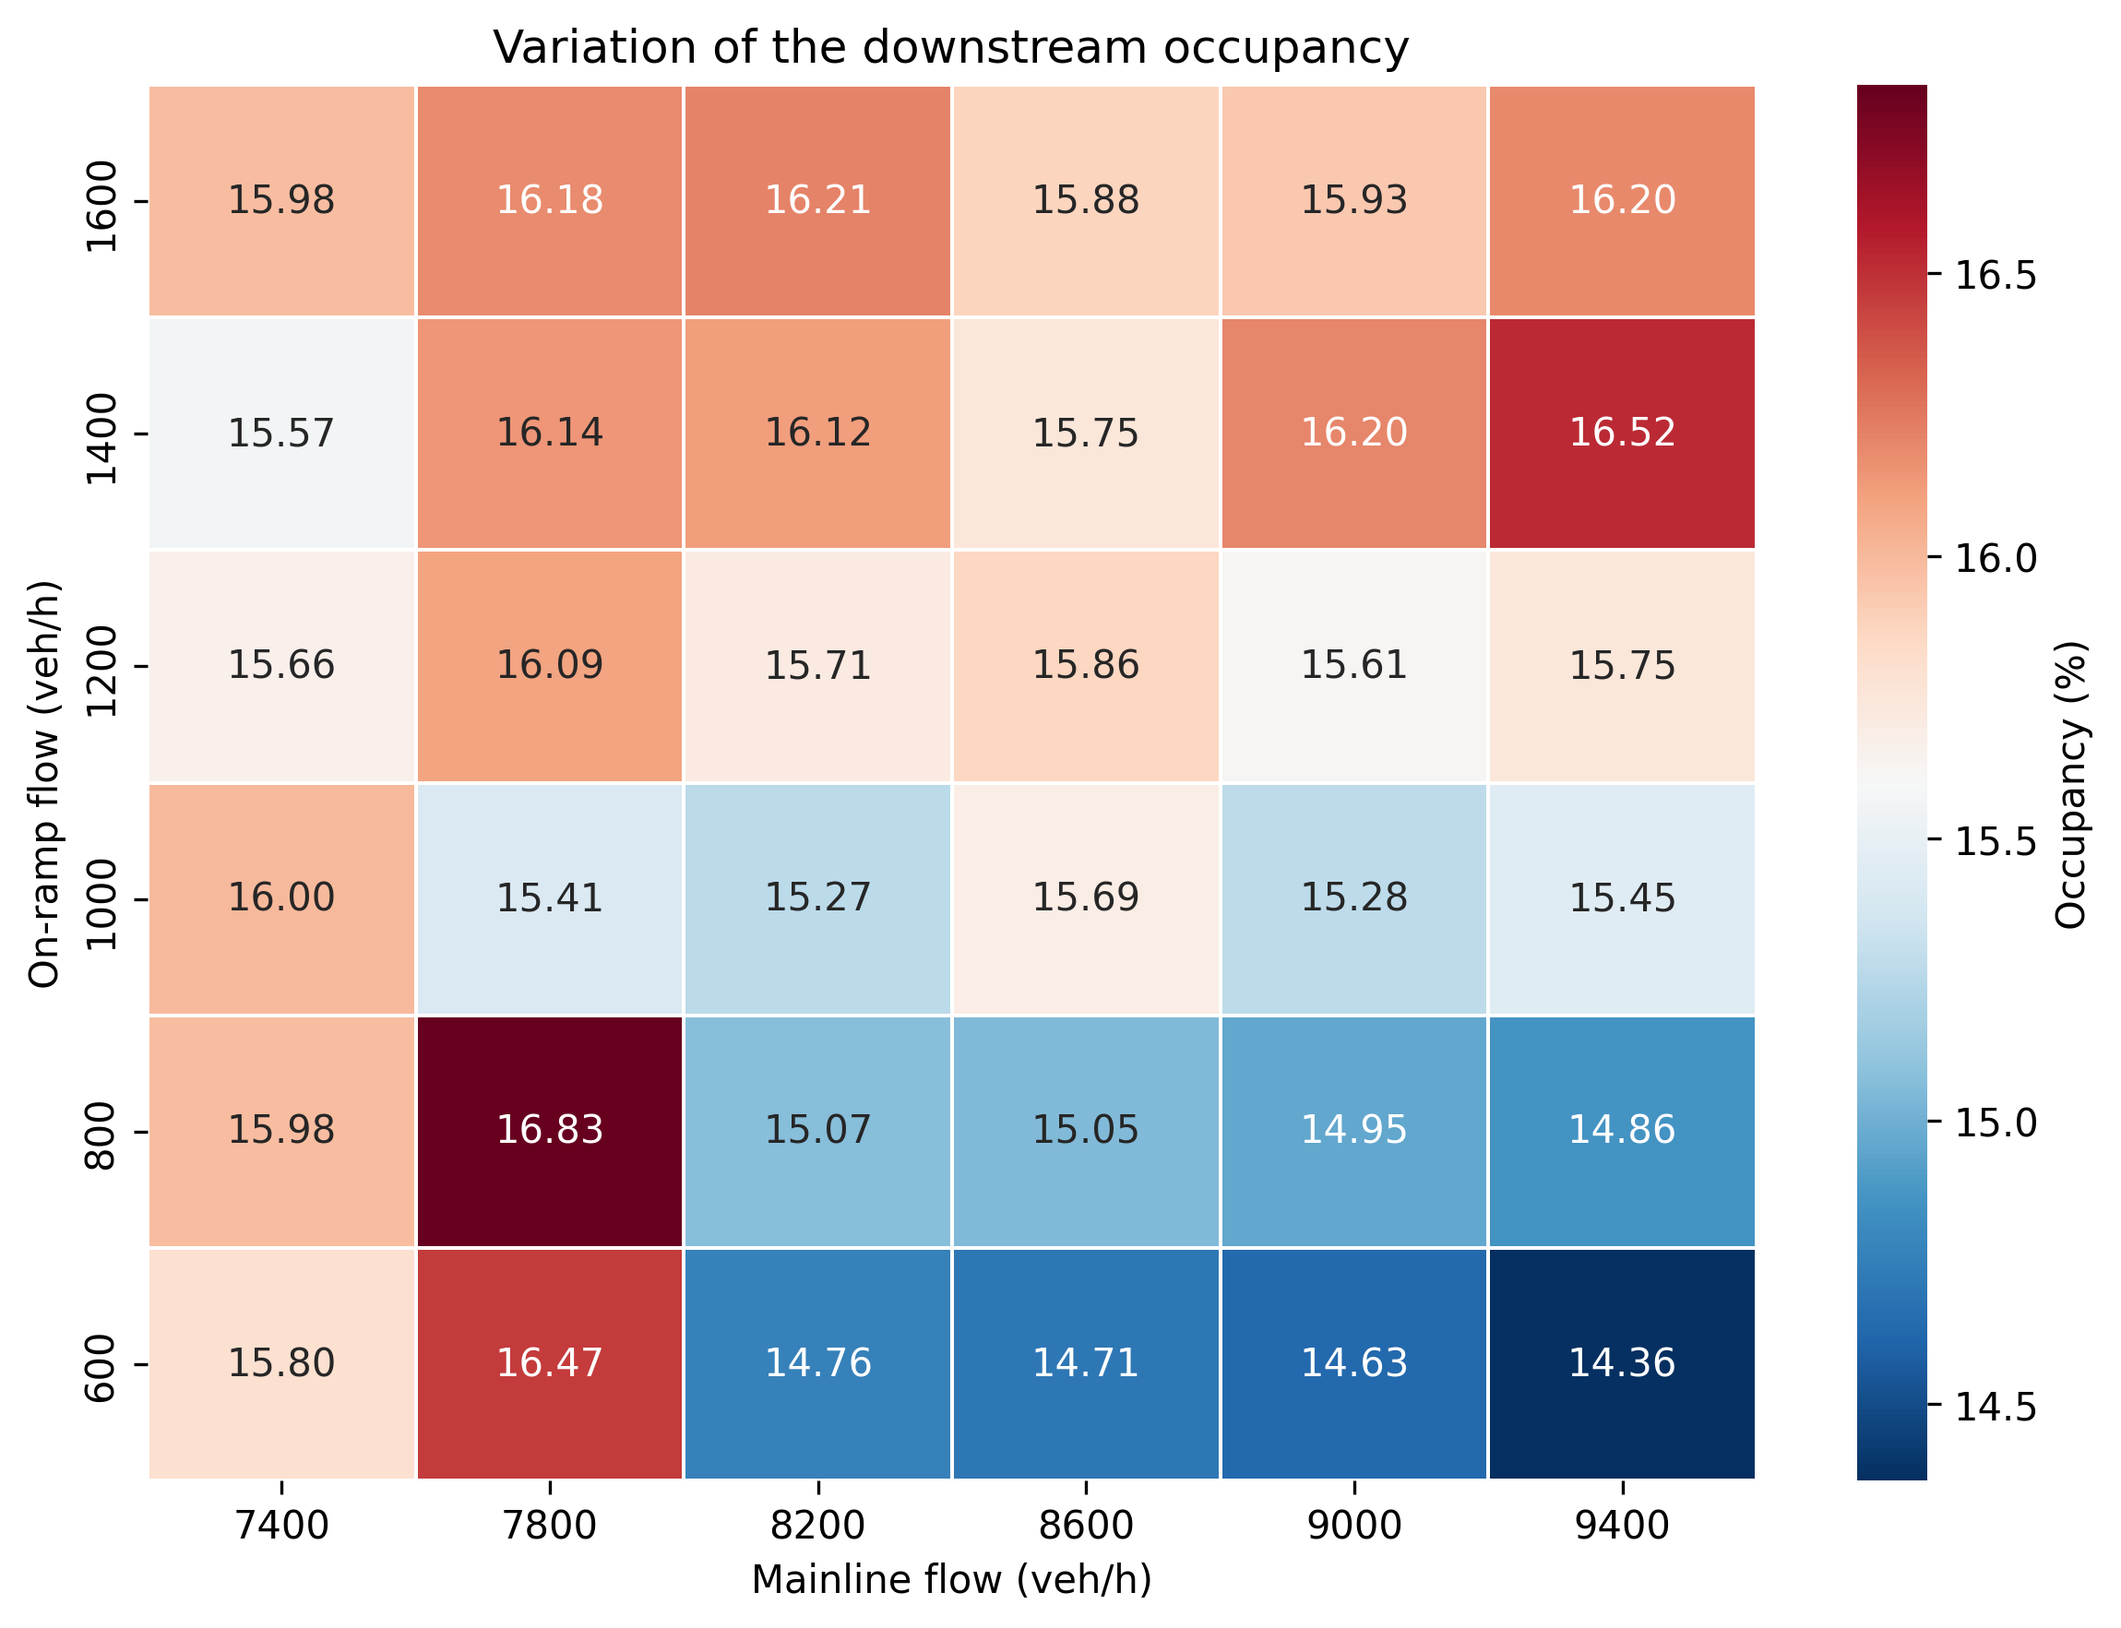
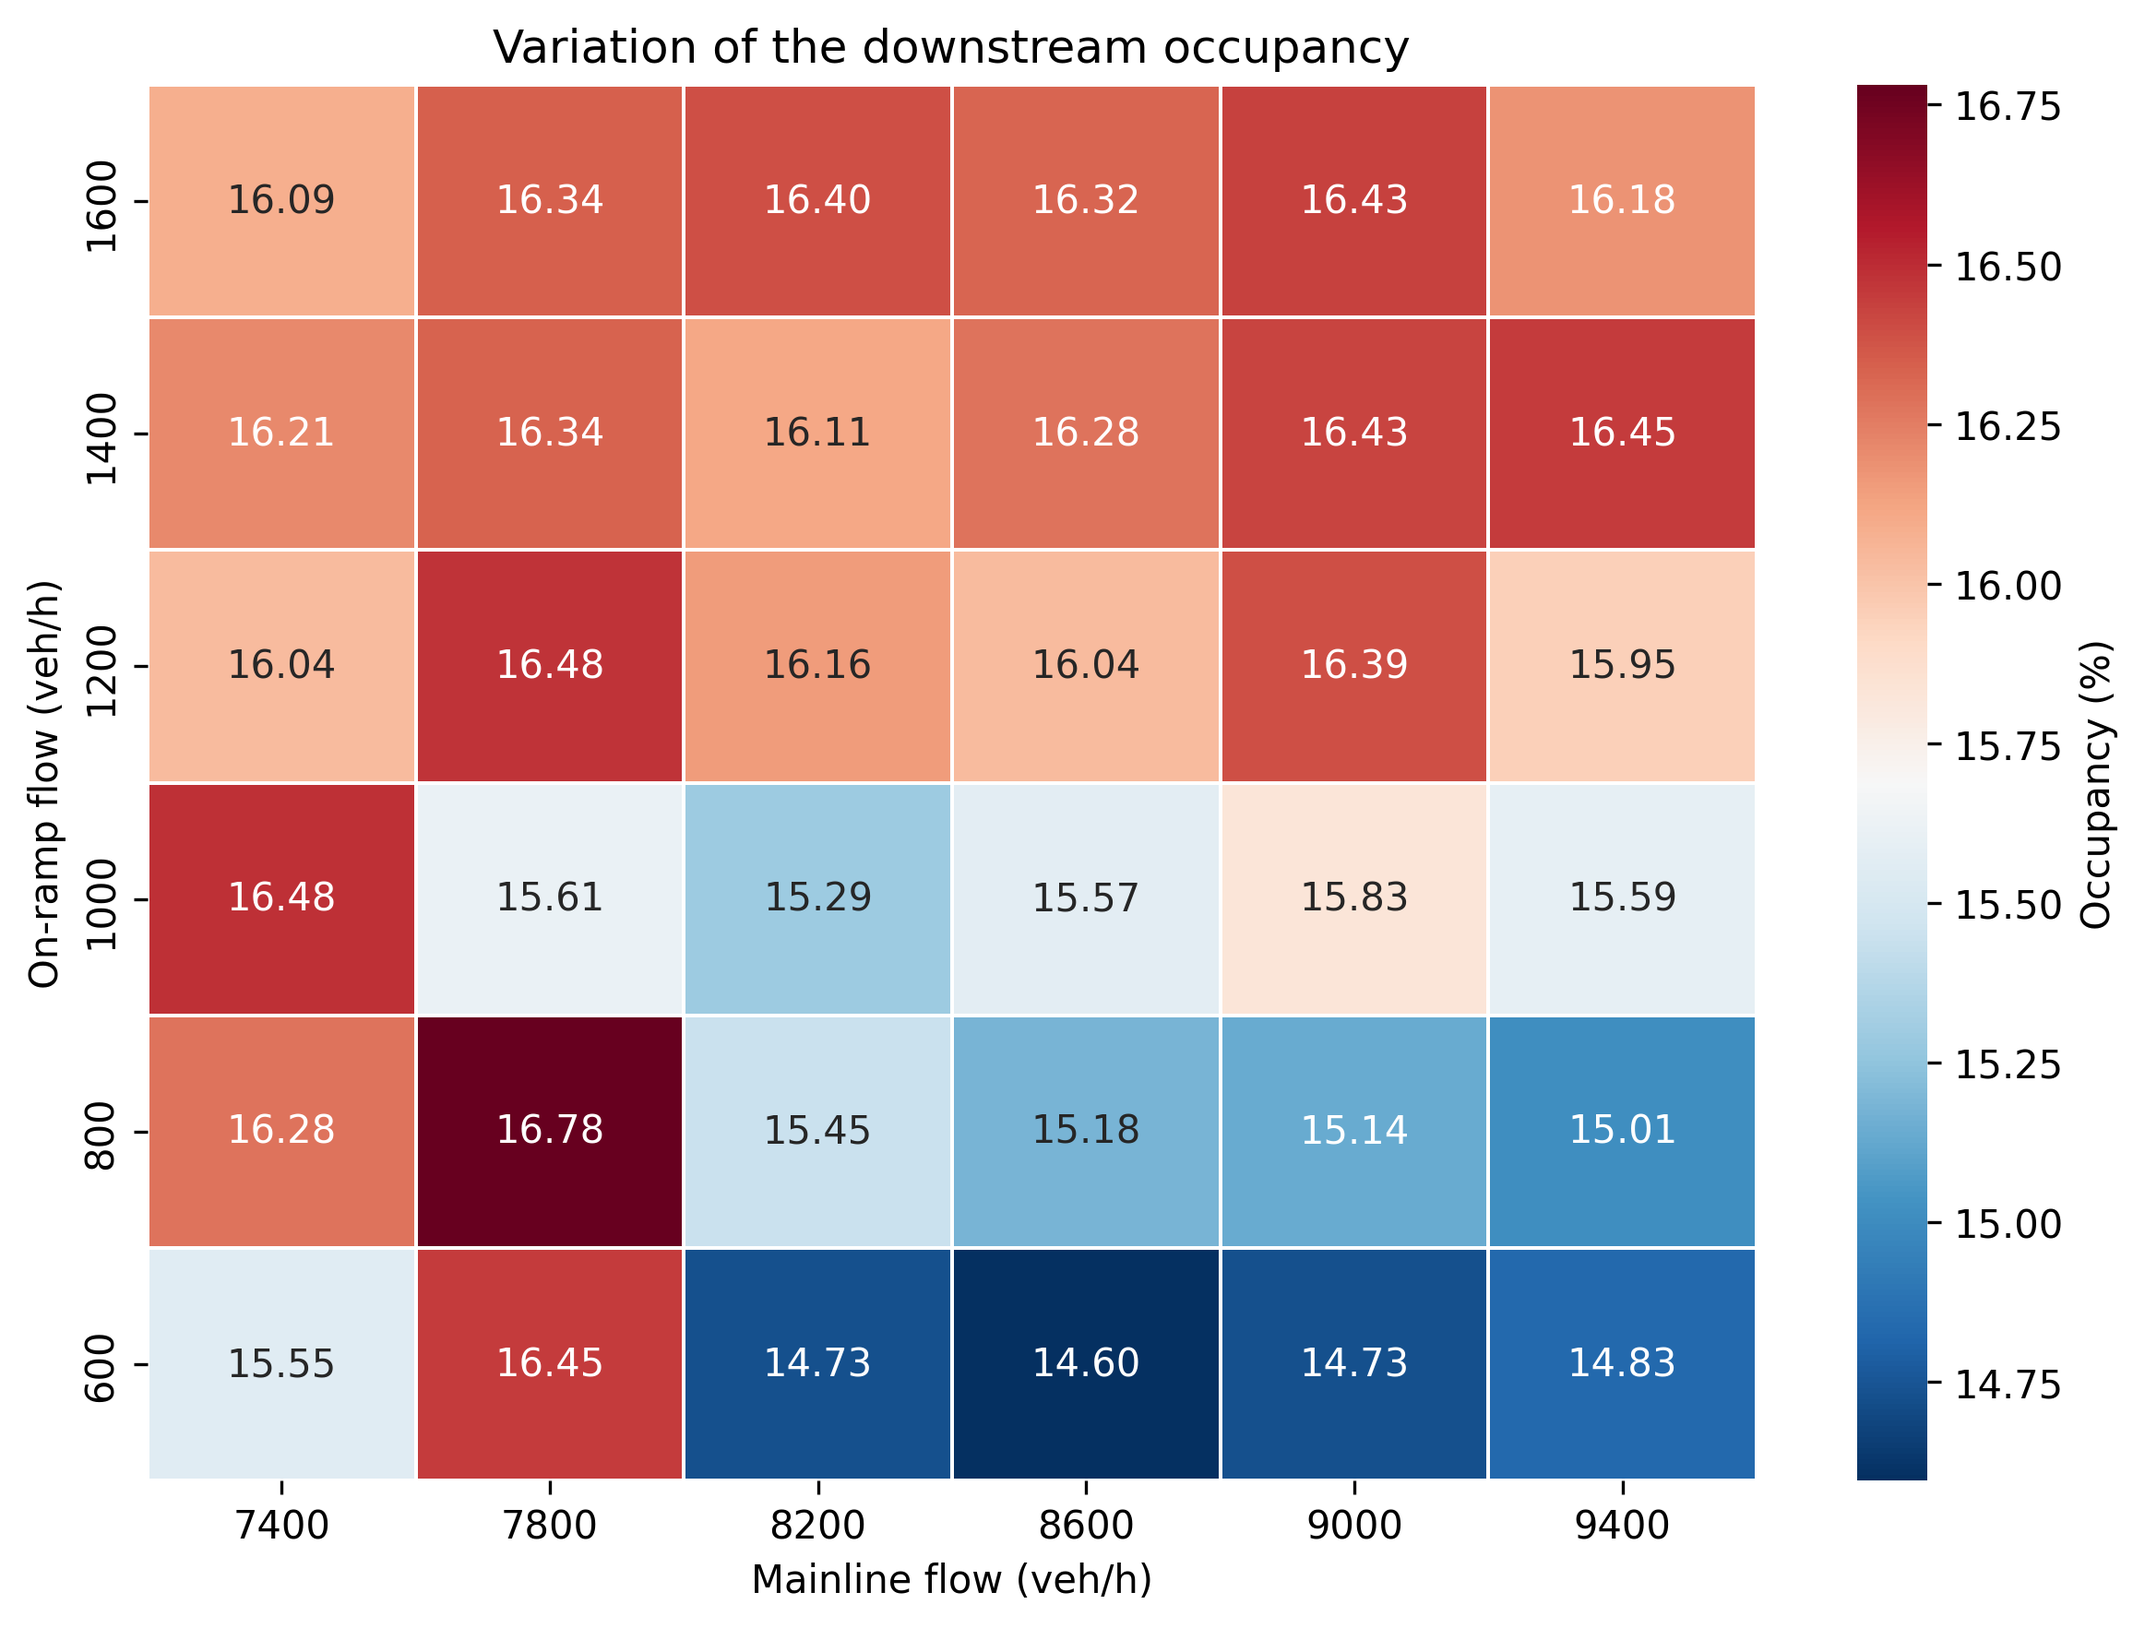
mid day mac

diff --git a/single_ramp/replicate_graphs/plot_figure7.py b/single_ramp/replicate_graphs/plot_figure7.py
@@ -4,14 +4,11 @@ import numpy as np
 import pandas as pd
 import seaborn as sns
 import matplotlib.pyplot as plt
-import sys
-
-sys.path.append(os.path.abspath(os.path.join(os.path.dirname(__file__), '..', '..')))
 
 # --- Configuration ---
-SUMO_NET_FILE = os.path.join("sumo_network","data", "network.net.xml")
-SUMO_ROU_FILE = os.path.join("sumo_network","data", "dynamic_routes.rou.xml")
-SUMO_CFG_FILE = os.path.join("sumo_network","data", "simulation.sumocfg")
+SUMO_NET_FILE = os.path.join("..", "sumo_network","data", "network.net.xml")
+SUMO_ROU_FILE = os.path.join("..", "sumo_network","data", "dynamic_routes.rou.xml")
+SUMO_CFG_FILE = os.path.join("..", "sumo_network","data", "simulation.sumocfg")
 
 # Grid Search Parameters (from the paper)
 MAINLINE_FLOWS = [7400, 7800, 8200, 8600, 9000, 9400]
@@ -19,21 +16,20 @@ RAMP_FLOWS = [600, 800, 1000, 1200, 1400, 1600]
 
 # Simulation parameters
 SIM_STEPS = 3600
-WARMUP_STEPS = 1800  # Discard early data before steady-state is reached
+WARMUP_STEPS = 1800
 TLS_ID = "junction_ramp"
 DOWNSTREAM_DETS = [f"det_loc2_{i}" for i in range(4)]
 
 def generate_route_file(main_flow, ramp_flow):
-    """Dynamically generates a route file for the specific flow combination."""
     # Ensure the car-following parameters match the paper's genetic algorithm calibration
     vtype = """<vType id="paper_car" length="5.0" minGap="2.0" accel="2.6" decel="4.5" sigma="0.3" tau="1.1"
-                      lcCooperative="1.0" lcSpeedGain="2.5" lcImpatience="1.0"
-                      lcOvertakeRight="0.3" lcLookaheadLeft="0.5" lcAssertive="3.0" lcStrategic="0.8"/>"""
+                    lcCooperative="1.0" lcSpeedGain="2.5" lcImpatience="1.0"
+                    lcOvertakeRight="0.3" lcLookaheadLeft="0.5" lcAssertive="3.0" lcStrategic="0.8"/>"""
 
     # Define the physical routes through your updated network
     routes = """
     <route id="route_main" edges="edge_virtual_main edge_mainline edge_merge edge_downstream"/>
-    <route id="route_ramp" edges="edge_virtual_ramp edge_ramp_2 edge_ramp_out edge_ramp_1 edge_merge edge_downstream"/>
+    <route id="route_ramp" edges="edge_virtual_ramp edge_ramp_2 edge_ramp_out edge_merge edge_downstream"/>
     """
 
     # Define continuous flows for 1 hour
@@ -66,10 +62,9 @@ def run_simulation_and_get_occupancy():
         traci.trafficlight.setRedYellowGreenState(TLS_ID, "GG")
         traci.simulationStep()
 
-        # Only collect data after warmup period to ensure queue has stabilized
         if step > WARMUP_STEPS and step % 15 == 0:
             occ = np.mean([traci.inductionloop.getLastIntervalOccupancy(d) for d in DOWNSTREAM_DETS])
-            if occ >= 0:  # Ignore -1.0 readings
+            if occ >= 0:
                 occupancies.append(occ)
 
     traci.close()
@@ -98,7 +93,7 @@ def generate_heatmap():
 
     # REMOVED vmin and vmax so it scales dynamically to your data
     ax = sns.heatmap(df, annot=True, fmt=".2f", cmap="RdBu_r", cbar_kws={'label': 'Occupancy (%)'},
-                     linewidths=.5)
+                    linewidths=.5)
 
     plt.title("Variation of the downstream occupancy")
     plt.xlabel("Mainline flow (veh/h)")

diff --git a/single_ramp/action_replacement.py b/single_ramp/action_replacement.py
@@ -1,9 +1,8 @@
-import math
 
 from config import RAMP_CAPACITY_VEH_S, SIM_STEPS_PER_CONTROL, W_MAX, ALPHA, R_MIN_RATIO
 
 def calculate_lower_bound(demand_prev_veh_s, current_queue):
-    # Calculate maximum allowed vehicles based on adjustment coefficient
+    # Calculate maximum allowed vehicles
     max_allowed_queue = ALPHA * W_MAX
 
     # Calculate how many more vehicles the ramp can hold
@@ -15,31 +14,29 @@ def calculate_lower_bound(demand_prev_veh_s, current_queue):
     # Calculate required discharge rate (veh/s) using Equation 13
     required_discharge_veh_s = demand_prev_veh_s - absorption_rate_veh_s
 
-    # Convert the required discharge rate into an action ratio [0, 1]
     r_lb_raw = required_discharge_veh_s / RAMP_CAPACITY_VEH_S
 
-    # Apply the absolute minimum rate
-    r_lb = max(R_MIN_RATIO, r_lb_raw)
-
-    # Cap the lower bound at 1.0
-    r_lb = min(1.0, r_lb)
+    # Convert the required discharge rate into an action ratio [0, 1]
+    r_lb = min(1.0, max(R_MIN_RATIO, r_lb_raw))
 
     return r_lb
-
 def calculate_penalty(current_queue, demand_current, action_ratio, penalty_scaling_factor=2.0):
     # Predict step of spillback (k_sp) based on current dynamics
     discharge_current = action_ratio * RAMP_CAPACITY_VEH_S
-    net_accumulation = demand_current - discharge_current
+    net_accumulation_veh_s = demand_current - discharge_current
 
-    if net_accumulation <= 0:
-        # Queue is shrinking or stable, spillback won't occur under these conditions
+    # Multiply by control step length (T) to get accumulation per control step
+    net_accumulation_per_step = net_accumulation_veh_s * SIM_STEPS_PER_CONTROL
+
+    if net_accumulation_per_step <= 0:
         return 0.0
 
     remaining_capacity = (ALPHA * W_MAX) - current_queue
-    steps_to_spillback = max(1.0, remaining_capacity / net_accumulation)
+
+    # (k_sp - k)
+    steps_to_spillback = max(1.0, remaining_capacity / net_accumulation_per_step)
 
     # Penalty Formula: w(k) / (k_sp - k + 1)
-    # Since we calculate steps_to_spillback directly, it replaces (k_sp - k)
     penalty = current_queue / (steps_to_spillback + 1.0)
 
     return penalty_scaling_factor * penalty

diff --git a/single_ramp/evaluate_model.py b/single_ramp/evaluate_model.py
@@ -39,7 +39,7 @@ def run_evaluation(model_path=None, tracker_path=None, use_replacement=False, no
         )
 
     env.start()
-    _, history, _ = run_episode(
+    _, history, _, _ = run_episode(
         env=env,
         controller=controller,
         control_steps=CONTROL_STEPS_PER_EPISODE,
@@ -63,12 +63,12 @@ if __name__ == "__main__":
     tts_alinea, mq_alinea, sb_alinea = run_evaluation(alinea=True)
     print(f"ALINEA     -> TTS: {tts_alinea:.2f} h | Max Queue: {mq_alinea} | Spillback: {sb_alinea}")
 
-    base_model = os.path.join("models", "model_ep100.pth")
-    base_tracker = os.path.join("models", "state_tracker_ep100.pkl")
+    base_model = os.path.join("models", "model_ep250.pth")
+    base_tracker = os.path.join("models", "state_tracker_ep250.pkl")
     tts_base, mq_base, sb_base = run_evaluation(model_path=base_model, tracker_path=base_tracker)
     print(f"RL-Based   -> TTS: {tts_base:.2f} h | Max Queue: {mq_base} | Spillback: {sb_base}")
 
-    # rep_model = os.path.join("models_replacement", "model_ep100.pth")
-    # rep_tracker = os.path.join("models_replacement", "state_tracker_ep100.pkl")
-    # tts_rep, mq_rep, sb_rep = run_evaluation(model_path=rep_model, tracker_path=rep_tracker, use_replacement=True)
-    # print(f"RL+Replace -> TTS: {tts_rep:.2f} h | Max Queue: {mq_rep} | Spillback: {sb_rep}")
+    rep_model = os.path.join("models_replacement", "model_ep100.pth")
+    rep_tracker = os.path.join("models_replacement", "state_tracker_ep100.pkl")
+    tts_rep, mq_rep, sb_rep = run_evaluation(model_path=rep_model, tracker_path=rep_tracker, use_replacement=True)
+    print(f"RL+Replace -> TTS: {tts_rep:.2f} h | Max Queue: {mq_rep} | Spillback: {sb_rep}")

diff --git a/single_ramp/train.py b/single_ramp/train.py
@@ -7,7 +7,7 @@ import torch
 import matplotlib.pyplot as plt
 
 from config import (
-    STATE_DIM, SUMO_PATH, CONTROL_STEPS_PER_EPISODE, SIM_STEPS_PER_CONTROL,
+    RAMP_DETS, STATE_DIM, SUMO_PATH, CONTROL_STEPS_PER_EPISODE, SIM_STEPS_PER_CONTROL,
     UPSTREAM_DETS, DOWNSTREAM_DETS, RAMP_ARR_DETS, RAMP_DEP_DETS, TLS_ID
 )
 from env import RampMeterEnv
@@ -32,7 +32,7 @@ def train(use_replacement, seed, num_episodes, dynamic_norm):
         downstream_dets=DOWNSTREAM_DETS,
         ramp_arr_dets=RAMP_ARR_DETS,
         ramp_dep_dets=RAMP_DEP_DETS,
-        ramp_edge="edge_ramp_2"
+        ramp_detector=RAMP_DETS
     )
 
     agent = SharedActorCritic(STATE_DIM)
@@ -53,7 +53,7 @@ def train(use_replacement, seed, num_episodes, dynamic_norm):
     line, ax, fig = init_plot(use_replacement)
     all_scores, history_steps, history_lengths, history_tts = [], [], [], []
     history_actions, history_replacement, history_lb = [], [], []
-    reward_history = {}
+    # reward_history = {}
     cumulative_steps = 0
 
     for episode in range(1, num_episodes+1):
@@ -98,7 +98,7 @@ def train(use_replacement, seed, num_episodes, dynamic_norm):
         history_replacement.append(replacement_pct)
 
         update_live_plot(all_scores, line, ax, fig)
-        print(f"Episode {episode} | Reward: {total_reward:.2f} | Steps: {len(rewards)} | TTS: {history['tts_total']:.0f}")
+        print(f"Episode {episode} | Reward: {total_reward:.2f} | Steps: {len(rewards)} | TTS: {history['tts_total']:.0f} | Max Queue: {max(history['queues'])}")
 
         # Save checkpoints
         if episode % 10 == 0:

diff --git a/single_ramp/test_max_queue.py b/single_ramp/test_max_queue.py
@@ -1,34 +1,25 @@
-import os
 import traci
-import sys
 
-sys.path.append(os.path.abspath(os.path.join(os.path.dirname(__file__), '..')))
+from config import (SIM_STEPS_PER_CONTROL, SUMO_PATH, TLS_ID)
 
-from config import (SIM_STEPS_PER_CONTROL, SUMO_PATH, CONTROL_STEPS_PER_EPISODE, TLS_ID)
-
-SUMO_PATH = os.path.join("..", "..", "sumo_network", "data", "simulation.sumocfg")
-EDGE_ID = "edge_ramp_2"
+detector_ids = ["det_ramp_queue_0", "det_ramp_queue_1"]
 
 def evaluate_max_queue():
-    # Start SUMO with GUI
-    sumo_cmd = ["sumo-gui", "-c", SUMO_PATH, "--start"]
+    sumo_cmd = ["sumo", "-c", SUMO_PATH]
+    print(SUMO_PATH)
     traci.start(sumo_cmd)
 
     max_queue = 0
 
-    print(f"Starting queue capacity test on '{EDGE_ID}'...")
-
-    for step in range(CONTROL_STEPS_PER_EPISODE):
+    for step in range(400):
         # Force the traffic light to stay red every step
-        # "rr" matches the 2-lane connection we set up in the XML
         traci.trafficlight.setRedYellowGreenState(TLS_ID, "rr")
 
         # Advance the simulation
         traci.simulationStep()
 
-        # Check queue every SIM_STEPS_PER_CONTROL steps
         if step % SIM_STEPS_PER_CONTROL == 0:
-            current_queue = traci.edge.getLastStepVehicleNumber(EDGE_ID)
+            current_queue = sum(traci.lanearea.getJamLengthVehicle(det) for det in detector_ids)
 
             # Update max queue
             if current_queue > max_queue:

diff --git a/single_ramp/env.py b/single_ramp/env.py
@@ -2,14 +2,14 @@ import traci
 import numpy as np
 
 class RampMeterEnv:
-    def __init__(self, sumo_cmd, tls_id, upstream_dets, downstream_dets, ramp_arr_dets, ramp_dep_dets, ramp_edge, max_speed=27.78):
+    def __init__(self, sumo_cmd, tls_id, upstream_dets, downstream_dets, ramp_arr_dets, ramp_dep_dets, ramp_detector, max_speed=27.78):
         self.sumo_cmd = sumo_cmd
         self.tls_id = tls_id
         self.upstream_dets = upstream_dets
         self.downstream_dets = downstream_dets
         self.ramp_arr_dets = ramp_arr_dets
         self.ramp_dep_dets = ramp_dep_dets
-        self.ramp_edge = ramp_edge
+        self.ramp_detector = ramp_detector
         self.max_speed = max_speed
 
     def start(self):
@@ -46,7 +46,7 @@ class RampMeterEnv:
         ramp_dep = dep_total / interval_steps
 
         # Queue is an instantaneous snapshot
-        queue_length = traci.edge.getLastStepVehicleNumber(self.ramp_edge)
+        queue_length = sum(traci.lanearea.getJamLengthVehicle(det) for det in self.ramp_detector)
 
         return {
             "upstream": {"occ": up_occ, "speed": up_speed, "veh": up_veh},

diff --git a/single_ramp/controllers.py b/single_ramp/controllers.py
@@ -7,7 +7,7 @@ class BaseController:
 
 class NoControlBaseline(BaseController):
     def execute_control(self, raw_state_list, is_training=False):
-        return 1.0, None, None, None, None, False  # 100% green ratio
+        return 1.0, None, None, None, None, [False, None]  # 100% green ratio
 
 class PiAlineaController(BaseController):
     def __init__(self, target_occ=14.0, k_r=90.0, k_p=10.0, min_ratio=0.1, max_ratio=1.0, sim_steps_per_control=15.0):
@@ -41,7 +41,7 @@ class PiAlineaController(BaseController):
         # Clamp between minimum and maximum allowed ratios
         action_ratio = max(self.min_ratio, min(self.max_ratio, action_ratio))
 
-        return action_ratio, None, None, None, None, False
+        return action_ratio, None, None, None, None, [False, None]
 
 class RLController(BaseController):
     def __init__(self, agent, state_tracker, normalize_fnc, use_replacement=False):

diff --git a/single_ramp/config.py b/single_ramp/config.py
@@ -22,6 +22,7 @@ UPSTREAM_DETS = [f"det_upstream_{i}" for i in range(4)]
 DOWNSTREAM_DETS = [f"det_loc2_{i}" for i in range(4)] + [f"det_loc3_{i}" for i in range(4)]
 RAMP_ARR_DETS = [f"det_ramp_arr_{i}" for i in range(2)]
 RAMP_DEP_DETS = [f"det_ramp_dep_{i}" for i in range(2)]
+RAMP_DETS = ["det_ramp_queue_0", "det_ramp_queue_1"]
 
 STATE_MEANS = np.asarray([20.3471, 18.1585, 1.9217, 8.4116, 26.6432, 4.4006, 3.4375, 0.3303, 0.33,7.5])
 STATE_STDS = np.asarray([6.9003, 4.5178, 0.1949, 1.289, 0.2667, 0.5689, 0.9812, 0.0775, 0.079, 7.5])

diff --git a/multi_ramp/plot_figure_13.py b/multi_ramp/plot_figure_13.py
@@ -1,8 +1,7 @@
 import traci
 import numpy as np
 import matplotlib.pyplot as plt
-import sys
-import os
+
 
 # =========================
 # CONFIGURATION
@@ -12,6 +11,8 @@ SUMO_PATH = "simulation.sumocfg"
 STEP_LENGTH = 1
 SIM_END = 4500
 FREE_FLOW_SPEED = 27.78  # m/s
+
+detector_ids = ["det_ramp_queue_0", "det_ramp_queue_1"]
 
 # Background flow from paper
 q0 = 8100 / 3600.0  # veh/sec
